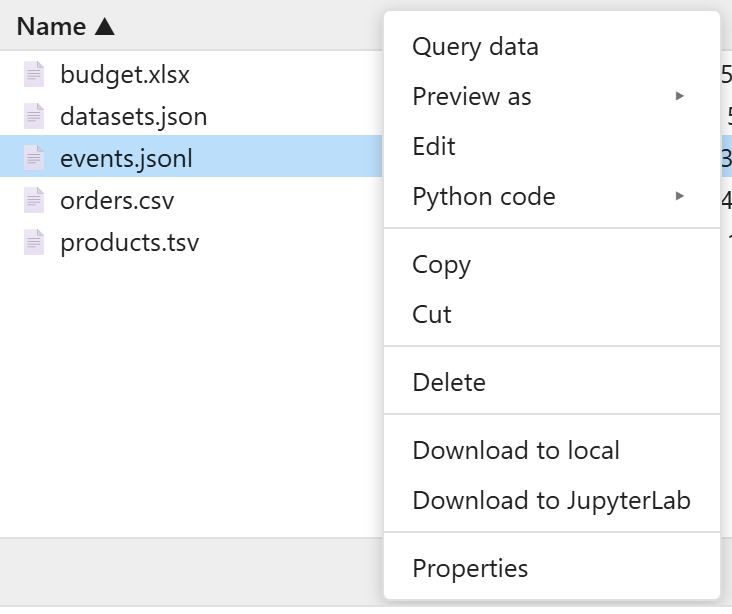
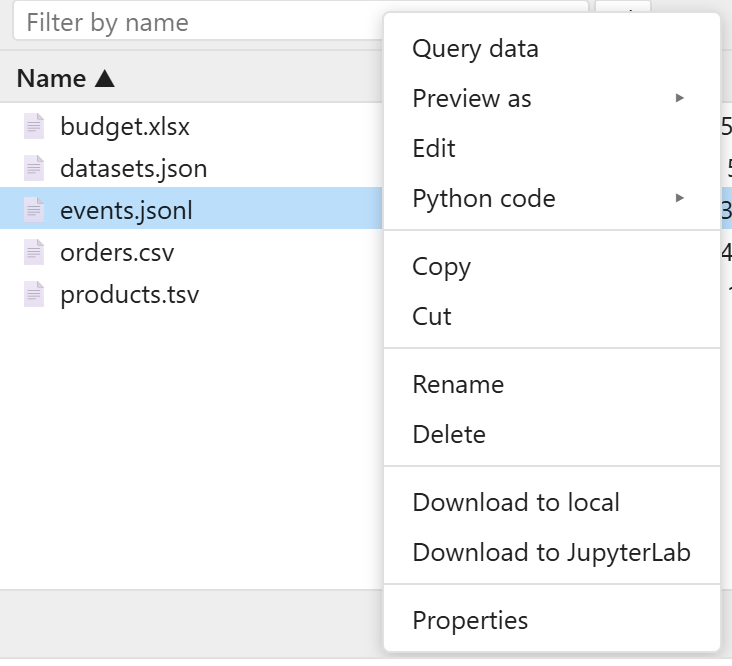
Rename in the right-click menu
One item, not the top folder; folders only in unsafe mode, as renaming a
folder moves everything in it on most storages. The dialog starts with the
current name, a file's without its extension selected. The kernel renames
with the operations' move, within the item's folder, as a job
(FileTasks.rename): a rename in one step where the operations can (e.g.
AzureDataLakeGen2Operation). Names that cannot be used or are taken are
refused before any job, and the dialog stays open with the reason.

The name checks of Create a folder (folder_name_error) are now name_error,
used by both.

Claude-Session: https://claude.ai/code/session_01HAwtBQoU26mZV3X6NRDYj5

diff --git a/src/jupyter_storage_explorer/static/storage_explorer.js b/src/jupyter_storage_explorer/static/storage_explorer.js
@@ -213,7 +213,7 @@ function render({ model, el }) {
     {
       className: "jse-unsafe",
       title:
-        "For the next operation only: allows risky operations (moving, copying, pasting and deleting folders). " +
+        "For the next operation only: allows risky operations (moving, copying, pasting, renaming and deleting folders). " +
         "Turns off when any operation starts.",
     },
     unsafeInput,
@@ -472,7 +472,7 @@ function render({ model, el }) {
   }
 
   // --- "Unsafe mode": while on, risky operations are offered (today:
-  // moving, copying, pasting and deleting folders). Any operation turns it
+  // moving, copying, pasting, renaming and deleting folders). Any operation turns it
   // off as it starts, risky or not, so it allows one operation at a time. The
   // kernel refuses folders unless the request says it was on ("unsafe") ---
 
@@ -1181,12 +1181,12 @@ function render({ model, el }) {
 
   // --- Create a folder: "Create a folder" in the right-click menu ---
 
-  // Why `name` cannot name a new folder, or null: the kernel's checks
-  // (_folder_name_error in storage_explorer.py), answered before sending anything.
-  function folderNameError(name) {
+  // Why `name` cannot name a new folder or a renamed item, or null: the
+  // kernel's checks (name_error in _paths.py), answered before sending anything.
+  function nameError(name) {
     if (!name.trim()) return "Enter a name";
     if (name !== name.trim()) return "No spaces at the start or the end";
-    if (name === "." || name === "..") return `"${name}" is not a folder name`;
+    if (name === "." || name === "..") return `"${name}" is not a name`;
     if (/[\\/]/.test(name)) return "A name, without / or \\";
     if (/[\x00-\x1f\x7f]/.test(name)) return "No control characters";
     if (name.length > 255) return "At most 255 characters";
@@ -1217,7 +1217,7 @@ function render({ model, el }) {
       input.select();
       if (!(await asked)) return;
       const name = input.value;
-      const error = folderNameError(name);
+      const error = nameError(name);
       if (error) {
         problem.textContent = error;
         continue;
@@ -1232,6 +1232,65 @@ function render({ model, el }) {
           ? `Created ${name}: it shows once a file is put in it (this storage has no empty folders)`
           : `Created ${name}`,
       );
+      return;
+    }
+  }
+
+  // --- Rename: "Rename" in the right-click menu, a file (or, in unsafe mode, a folder) ---
+
+  // Asks for the new name, with the current one to edit (a file's without its
+  // extension selected), and renames `target` ({path, type}) in its folder: a
+  // move, as a job. A name that cannot be used, or is taken, is explained in
+  // the dialog, which stays open until the item is renamed or it is cancelled.
+  async function renameItem(target) {
+    const folders = takeUnsafe();
+    if (isFolder(target) && !folders) {
+      flash("Turn on unsafe mode to rename folders");
+      return;
+    }
+    const old = target.path.slice(target.path.lastIndexOf("/") + 1);
+    const input = h("input", { type: "text", className: "jse-name-input", value: old, spellcheck: false });
+    const problem = h("div", { className: "jse-note jse-error-text" });
+    input.addEventListener("keydown", (ev) => {
+      if (ev.key !== "Enter") return;
+      ev.preventDefault();
+      answer(true);
+    });
+    const dot = old.lastIndexOf(".");
+    const stem = !isFolder(target) && dot > 0 ? dot : old.length;
+    let first = true;
+    for (;;) {
+      const asked = ask(
+        [h("div", { textContent: `Rename ${old}` }), input, problem],
+        [
+          { label: "Cancel", value: null },
+          { label: "Rename", value: true, primary: true },
+        ],
+      );
+      input.focus();
+      if (first) input.setSelectionRange(0, stem);
+      first = false;
+      if (!(await asked)) return;
+      const name = input.value;
+      if (name === old) return;
+      const error = nameError(name);
+      if (error) {
+        problem.textContent = error;
+        continue;
+      }
+      const reply = await busy(`Renaming ${old}…`, () =>
+        request({ type: "rename", path: target.path, name, unsafe: folders }),
+      );
+      if (reply.error || reply.errors) {
+        problem.textContent = reply.error ?? reply.errors.join("; ");
+        continue;
+      }
+      const result = await jobResult(reply);
+      const { renamed = [], errors = [] } = result;
+      const parts = renamed.length ? [`Renamed ${old} to ${name}`] : [];
+      parts.push(...errors.map((e) => `Failed: ${e}`));
+      parts.push(...jobOutcome(result, parts, "Rename"));
+      flash(parts.join("; ") || "Nothing renamed");
       return;
     }
   }
@@ -1622,6 +1681,9 @@ function render({ model, el }) {
 
     const change = [];
     if (folder) change.push({ label: "Create a folder", action: () => createFolder(folder.path) });
+    if (single && allowed && single.path !== model.get("_root")) {
+      change.push({ label: "Rename", action: () => renameItem(single) });
+    }
     if (allowed) change.push({ label: count ? `Delete ${count}${what}` : "Delete", action: () => confirmDelete(targets) });
 
     // Files only: downloading folders is intentionally not supported. The

diff --git a/tests/test_storage_explorer.py b/tests/test_storage_explorer.py
@@ -1199,7 +1199,7 @@ class TestCreateFolder:
             ("", "enter a name"),
             ("   ", "enter a name"),
             (" x", "no spaces at the start or the end"),
-            ("..", "'..' is not a folder name"),
+            ("..", "'..' is not a name"),
             ("a/b", "a name, without / or \\"),
             ("a\\b", "a name, without / or \\"),
             ("a\tb", "no control characters"),
@@ -1221,6 +1221,69 @@ class TestCreateFolder:
             "created": "new",
             "hidden": True,
         }
+
+
+class TestRename:
+    """ "Rename": a move within the item's folder; folders only in unsafe mode."""
+
+    @pytest.fixture
+    def explorer(self, memfs):
+        memfs.pipe(
+            {"/data/sub/deep/y.txt": b"y", "/data/a.csv": b"a", "/data/b.csv": b"b"}
+        )
+        return make("/", fs=memfs)
+
+    def rename(self, explorer, path, name, unsafe=False):
+        return without_ids(
+            explorer.request(
+                {
+                    "type": "rename",
+                    "rid": 1,
+                    "path": path,
+                    "name": name,
+                    "unsafe": unsafe,
+                }
+            )
+        )
+
+    def test_a_file(self, explorer):
+        explorer._current_dir = "/data"
+        explorer._selected = ["/data/a.csv"]
+        assert self.rename(explorer, "/data/a.csv", "c.csv") == {
+            "renamed": ["c.csv"],
+            "errors": [],
+        }
+        assert explorer._fs.cat_file("/data/c.csv") == b"a"
+        assert not explorer._fs.exists("/data/a.csv")
+        assert {e["name"] for e in entries(explorer)} == {"sub", "b.csv", "c.csv"}
+        assert explorer._selected == []
+
+    def test_a_folder_in_unsafe_mode(self, explorer):
+        explorer._current_dir = "/data/sub/deep"
+        reply = self.rename(explorer, "/data/sub", "renamed", unsafe=True)
+        assert reply == {"renamed": ["renamed"], "errors": []}
+        assert explorer._fs.cat_file("/data/renamed/deep/y.txt") == b"y"
+        # The list follows the folder it showed, and the tree the new name.
+        assert explorer._current_dir == "/data/renamed/deep"
+        assert "renamed" in [d["name"] for d in explorer._tree["/data"]]
+        assert "sub" not in [d["name"] for d in explorer._tree["/data"]]
+
+    @pytest.mark.parametrize(
+        ("path", "name", "unsafe", "error"),
+        [
+            ("/data/sub", "other", False, "folders are renamed only in unsafe mode"),
+            ("/", "other", True, "the top folder is not renamed"),
+            ("/data/a.csv", "b.csv", False, "b.csv already exists"),
+            ("/data/a.csv", "sub", False, "sub already exists"),
+            ("/data/a.csv", "a.csv", False, "that is its name already"),
+            ("/data/a.csv", "x/y.csv", False, "a name, without / or \\"),
+            ("/data/a.csv", "..", False, "'..' is not a name"),
+        ],
+    )
+    def test_refused(self, explorer, path, name, unsafe, error):
+        assert self.rename(explorer, path, name, unsafe) == {"error": error}
+        assert explorer._fs.cat_file("/data/a.csv") == b"a"
+        assert explorer._fs.exists("/data/sub/deep/y.txt")
 
 
 class TestProperties:

diff --git a/src/jupyter_storage_explorer/storage_explorer.py b/src/jupyter_storage_explorer/storage_explorer.py
@@ -317,7 +317,7 @@ class StorageExplorer(anywidget.AnyWidget):
     _filesystem_names = traitlets.List(traitlets.Unicode()).tag(sync=True)
     _filesystem = traitlets.Unicode().tag(sync=True)
     # The "Unsafe mode" switch in the toolbar: while on, risky operations
-    # are offered (today: moving, copying, pasting and deleting folders). The
+    # are offered (today: moving, copying, pasting, renaming and deleting folders). The
     # frontend turns it off when any operation starts, and sends with each
     # request whether it was on ("unsafe").
     _unsafe_mode = traitlets.Bool(False).tag(sync=True)
@@ -565,6 +565,7 @@ class StorageExplorer(anywidget.AnyWidget):
             "list": lambda c, _: self._reply(c, self._list_page(c)),
             "job_cancel": lambda c, _: self._cancel_job(c),
             "move": lambda c, _: self._reply(c, self._move_request(c)),
+            "rename": lambda c, _: self._reply(c, self._rename_request(c)),
             "download_to_server": lambda c, _: self._reply(
                 c, self._download_to_server_request(c)
             ),
@@ -1383,7 +1384,7 @@ class StorageExplorer(anywidget.AnyWidget):
             return {"errors": [f"{type(exc).__name__}: {exc}"]}
 
     # --- Move: files (and, in unsafe mode, folders) dragged onto a folder;
-    # delete: chosen with "Delete" in the right-click menu ---
+    # rename and delete: chosen in the right-click menu ---
 
     def _move_request(self, content: dict[str, Any]) -> dict[str, Any]:
         return self._plan_request(
@@ -1404,6 +1405,17 @@ class StorageExplorer(anywidget.AnyWidget):
     ) -> dict[str, Any]:
         """Move files into folder ``dest``, now (see ``FileTasks.move``)."""
         return self._run_now(self._tasks().move(paths, dest, if_exists, folders))
+
+    def _rename_request(self, content: dict[str, Any]) -> dict[str, Any]:
+        return self._plan_request(
+            lambda: self._tasks().rename(
+                content["path"], content["name"], folders=bool(content.get("unsafe"))
+            )
+        )
+
+    def _rename(self, path: str, name: str, folders: bool = False) -> dict[str, Any]:
+        """Rename an item, now (see ``FileTasks.rename``)."""
+        return self._run_now(self._tasks().rename(path, name, folders))
 
     def _delete_request(self, content: dict[str, Any]) -> dict[str, Any]:
         return self._plan_request(
@@ -1595,7 +1607,7 @@ class StorageExplorer(anywidget.AnyWidget):
         not show, as on object stores (S3, Google Cloud Storage), which have no
         empty folders; or {"error": reason}.
         """
-        if (error := _paths.folder_name_error(name)) is not None:
+        if (error := _paths.name_error(name)) is not None:
             return {"error": error}
         path = _paths.join(dest, name)
         if self._exists(path):

diff --git a/src/jupyter_storage_explorer/file_tasks.py b/src/jupyter_storage_explorer/file_tasks.py
@@ -286,6 +286,46 @@ class FileTasks:
                 moves.append((path, target, True))
         return moves, errors
 
+    # --- Rename: a move within the item's folder ---
+
+    def rename(self, path: str, name: str, folders: bool = False) -> Plan:
+        """Rename ``path`` to ``name`` (a name, not a path) with the operations'
+        ``move``, e.g. a rename in one step on Azure Data Lake Gen2.
+
+        Result: {"renamed": [name], "errors"}. Or, before any job, {"error":
+        reason}: a name that cannot be used or is taken (nothing is replaced),
+        or a folder without ``folders``, or the top folder.
+        """
+        if (error := _paths.name_error(name)) is not None:
+            return {"error": error}
+        parent = _paths.parent(path, self.fs)
+        target = _paths.join(parent, name)
+        if _paths.norm(target) == _paths.norm(path):
+            return {"error": "that is its name already"}
+        is_dir = self.fs.isdir(path)
+        if is_dir and not folders:
+            return {"error": "folders are renamed only in unsafe mode"}
+        if is_dir and _paths.norm(path) == _paths.norm(self.root):
+            return {"error": "the top folder is not renamed"}
+        if self.fs.exists(target):
+            return {"error": f"{name} already exists"}
+        fs, ops = self.fs, self.ops
+        task = Task("move", f"Renaming {_paths.basename(path)} to {name}", fs)
+
+        def work(progress: Progress) -> dict[str, Any]:
+            failed: list[str] = []
+
+            def rename(item: tuple[str, str, bool]) -> None:
+                ops.move(fs, path, fs, target, progress)
+                task.record(moved=(path, target), changed=[parent], added_to=parent)
+
+            size = self.measure(fs, path) if is_dir else (1, 0)
+            stop = _do_each(progress, [(path, target, is_dir)], [size], rename, failed)
+            return _outcome(stop, renamed=[name] if task.moved else [], errors=failed)
+
+        task.work = work
+        return task
+
     # --- Delete ---
 
     def delete(self, paths: Sequence[str], folders: bool = False) -> Plan:

diff --git a/src/jupyter_storage_explorer/_paths.py b/src/jupyter_storage_explorer/_paths.py
@@ -46,15 +46,15 @@ def safe_name(name: str) -> str:
     return name
 
 
-def folder_name_error(name: str) -> str | None:
-    """Why ``name`` cannot name a new folder, or None if it can. The same checks
-    as the frontend's (see folderNameError in storage_explorer.js)."""
+def name_error(name: str) -> str | None:
+    """Why ``name`` cannot name a new folder or a renamed item, or None if it
+    can. The same checks as the frontend's (see nameError in storage_explorer.js)."""
     if not name.strip():
         return "enter a name"
     if name != name.strip():
         return "no spaces at the start or the end"
     if name in (".", ".."):
-        return f"{name!r} is not a folder name"
+        return f"{name!r} is not a name"
     if "/" in name or "\\" in name:
         return "a name, without / or \\"
     if any(ord(c) < 32 or ord(c) == 127 for c in name):

diff --git a/docs/storage-explorer.md b/docs/storage-explorer.md
@@ -97,10 +97,10 @@ Double-click a file, or **Preview** below the list (with nothing selected: the c
 
 ### Right-click
 
-Preview as, Edit, Python code to load the data, Copy URL; Copy, Cut, Paste; Create a folder, Delete; Download to local
-or to JupyterLab; Properties, Add bookmark.
+Preview as, Edit, Python code to load the data, Copy URL; Copy, Cut, Paste; Create a folder, Rename, Delete; Download
+to local or to JupyterLab; Properties, Add bookmark.
 
-<img src="figs/using-right-click.png" width="366" alt="The right-click menu of a JSON Lines file">
+<img src="figs/using-right-click.png" width="367" alt="The right-click menu of a JSON Lines file">
 
 ### Properties
 
@@ -127,7 +127,7 @@ onto JupyterLab's file browser to download them (needs [the launcher](../launche
 
 ### Background operations
 
-Moving, deleting, pasting and downloading to JupyterLab run in the background, with progress and **Cancel** above the
+Moving, renaming, deleting, pasting and downloading to JupyterLab run in the background, with progress and **Cancel** above the
 status bar.
 
 ## Unsafe operations
@@ -140,6 +140,7 @@ Folder operations need **Unsafe mode**, turned on with the slider at the right o
 |------------------------|----------------------------------------------------------------------------------------------|
 | Move folders           | Drag a folder onto another folder, or right-click → **Cut**, then **Move here** on a folder. |
 | Copy and paste folders | Right-click → **Copy**, then **Paste** on a folder.                                          |
+| Rename folders         | Right-click → **Rename** (on most storages, a move of everything in it).                     |
 | Delete folders         | Right-click → **Delete** (with everything in it).                                            |
 
 ## Transfer policy

diff --git a/CLAUDE.md b/CLAUDE.md
@@ -108,7 +108,7 @@ overridable: by default through a temporary file, so a failure leaves no partial
 each file, so a cancel leaves each file in one place. Tests use fsspec's `AsyncFileSystemWrapper` around a memory
 filesystem as an async one. Object stores (S3, GCS) have no empty folders, which matters for creating folders.
 
-**Jobs.** Move, delete, paste, uploads (from JupyterLab's file browser, and the storage half of uploads from the
+**Jobs.** Move, rename (a move within the folder, `FileTasks.rename`), delete, paste, uploads (from JupyterLab's file browser, and the storage half of uploads from the
 computer) and both downloads to JupyterLab run in the background (`jobs.py`). Each is planned by a `FileTasks` method
 (`file_tasks.py`, no widget involved) on the main thread: checks, conflicts to ask about (returned as a dict), else a
 `Task` whose `work(progress)` runs in the `JobRunner`'s worker thread (one job at a time) and records what it changed
@@ -136,7 +136,7 @@ folders at a time), reporting files found, leaving unlistable folders in `errors
 misses subfolders) and returning what was found, `complete` False, on a cancel. `_infos.mtime` gives the
 modification time whichever key a filesystem uses, for the list too.
 
-**Unsafe mode.** Folder operations (move, copy or cut and paste, delete) are offered only while the "Unsafe mode" slider in
+**Unsafe mode.** Folder operations (move, copy or cut and paste, rename, delete) are offered only while the "Unsafe mode" slider in
 the toolbar is on (trait `_unsafe_mode`). In the frontend, every operation calls `takeUnsafe()` as it starts, which
 turns it off (one operation at a time), and sends whether it was on with its request (`"unsafe"`); the kernel refuses
 folders without it (the methods' `folders=` parameter).
